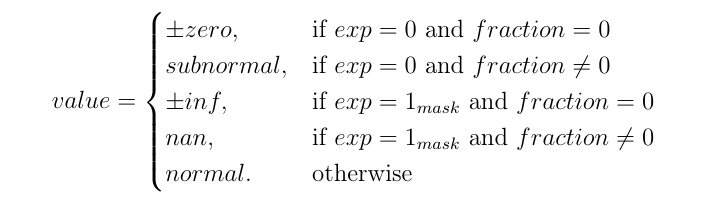
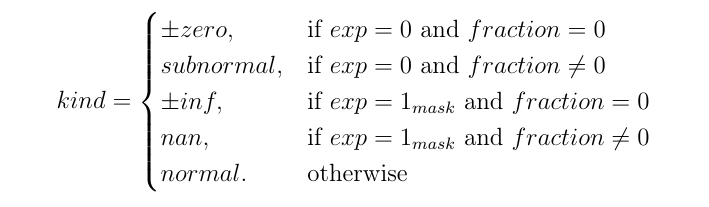
Update documentation

diff --git a/doc/eq_float_type.tex b/doc/eq_float_type.tex
@@ -1,5 +1,5 @@
 \begin{equation*}
-value =
+kind =
 \begin{cases}
     \pm zero,  & \text{if $exp = 0$        and $fraction = 0$} \\
     subnormal, & \text{if $exp = 0$        and $fraction \neq 0$} \\

diff --git a/README.md b/README.md
@@ -60,7 +60,7 @@ print(f_num)
 # [0]
 # [1, 0, 0, 0, 1, 0, 0, 1]
 # [0, 0, 1, 1, 0, 1, 0, 0, 1, 0, 0, 1, 1, 1, 0, 1, 0, 0, 1, 1, 1, 0, 1]
-#-1234.4566650390625
+# -1234.4566650390625
 ```
 
 ## Implemented types and formula
@@ -70,7 +70,13 @@ This module implements all of them plus something non-standard.
 
 ![IEEE 754 bits layouts](doc/img/tb_pk_bits.png "IEEE 754 bits layouts")
 
-Every implemented type is available as a class:
+Where bits are laid out from left to right `sign - exponent - fraction`.
+
+For example the `BFloat16` is stored as:
+
+![BFloat16 bits layout](doc/img/tb_bfloat16_bits.png "BFloat16 bits layout")
+
+Every implemented float type is available as a class:
 ```python
 from floatedu import *
 [Float, Float8, Float16, BFloat16, Float64, Float32, Float128, Float256]
